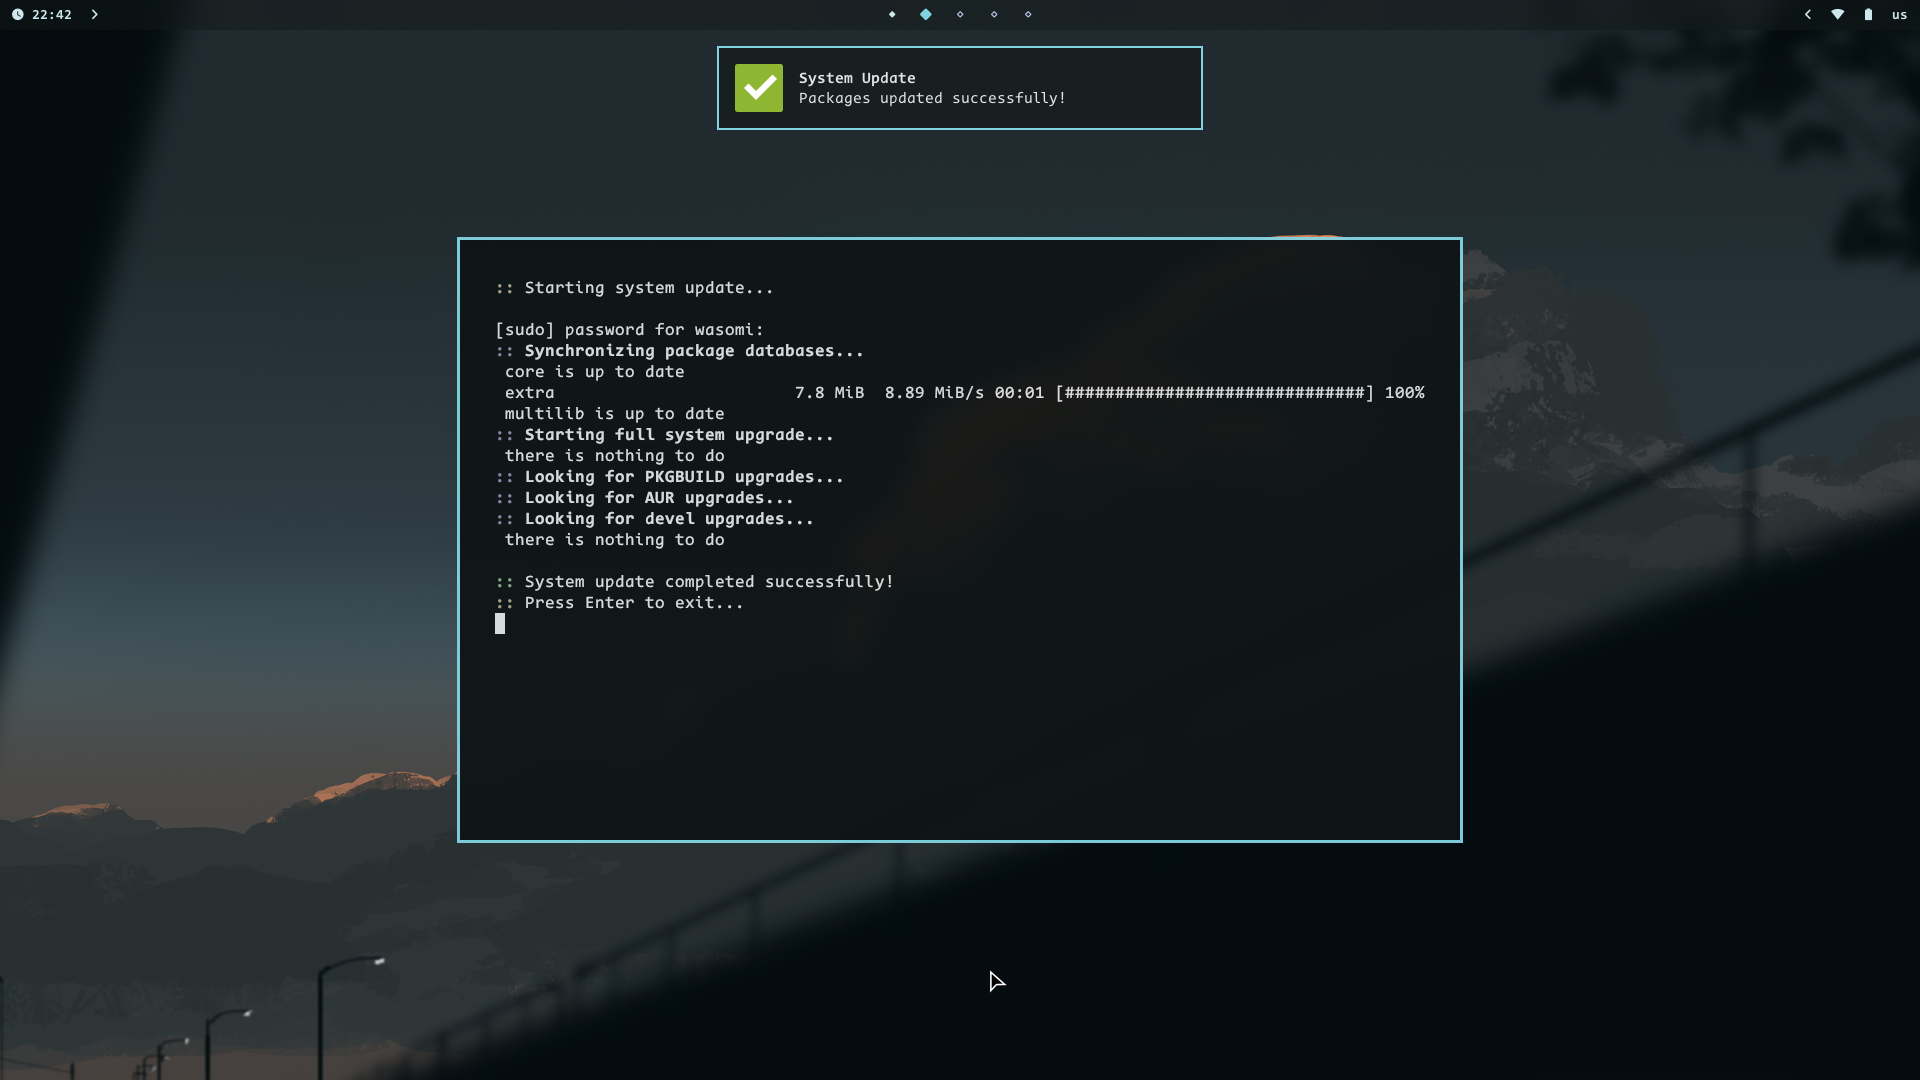
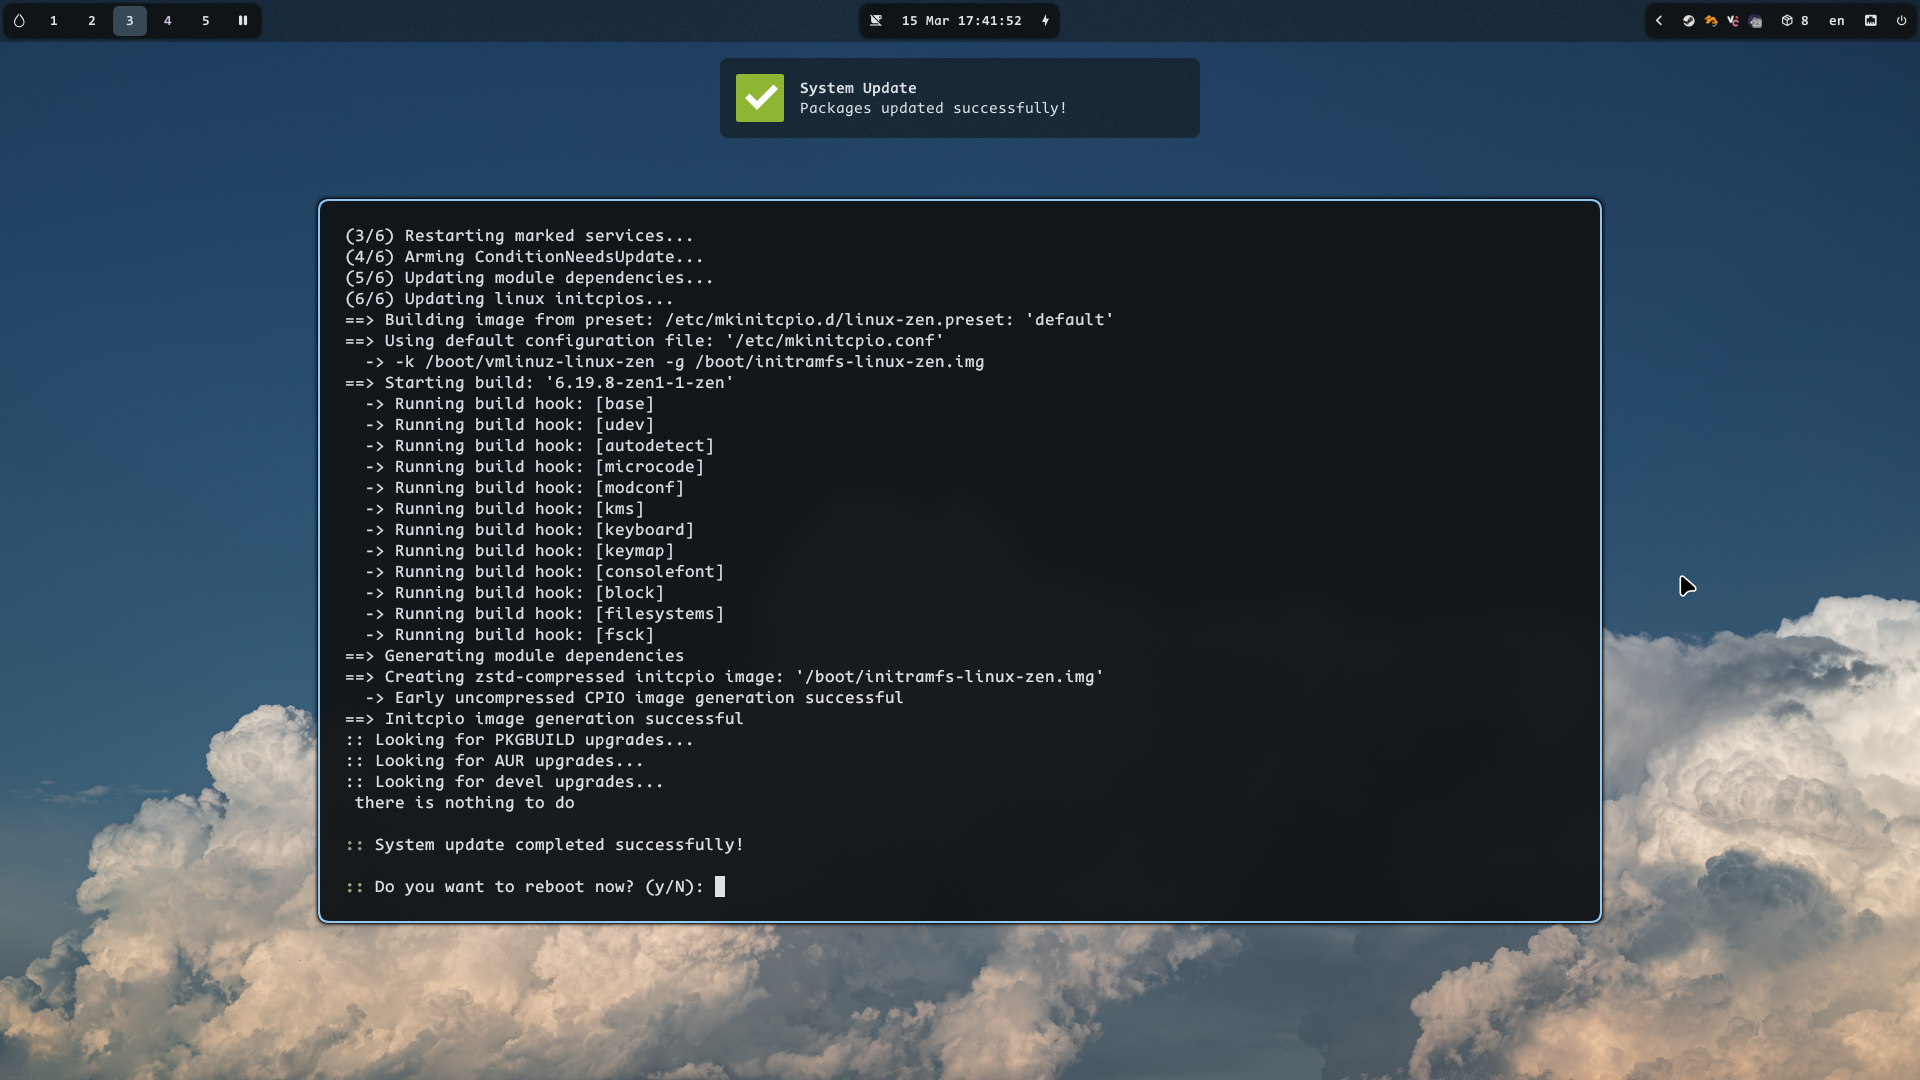
update screenshots & add fastfetch in fish cfg

diff --git a/Docs/install.md b/Docs/install.md
@@ -1,22 +1,6 @@
 # install
 
-1. clone repo: `git clone https://github.com/wasomi/dotfiles ~/.dotfiles --depth 1`
-2. install needed pkgs: `pacman -S - < ~/.dotfiles/Packages/pkgList` & `paru -S - < ~/.dotfiles/Packages/aurPkgList`
-3. make symbolic link for folders
-   1. `ln -s` for all folders in `.dotfiles/.config`, example: `ln -s ~/.dotfiles/.config/hypr/ ~/.config/`
-   2. `ln -s ~/.dotfiles/.local/bin/ ~/.local/`
-   3. `ln -s ~/.dotfiles/Pictures/Wallpapers/ ~/Pictures/`
-4. `chsh -s $(which fish)`
-5. reboot system
-6. if you don't have display manager start hyprland via command `h`
-7. change the wallpaper using keybind `super + w`
-
-## optional pkgs
-
-> i'm just using these packages
-
-- `pacman -S - < ~/.dotfiles/Packages/Optional/pkgList`
-- `paru -S - < ~/.dotfiles/Packages/Optional/aurPkgList`
-
-- `sudo usermod -aG libvirt <username>`
-- `sudo usermod -aG docker <username>`
+1. `sudo pacman -S --needed git`
+2. `git clone https://github.com/wasomi/dotfiles ~/.dotfiles --depth 1`
+3. `cd ~/.dotfiles`
+4. `./install.sh`

diff --git a/README.md b/README.md
@@ -15,16 +15,15 @@
 
 ## docs
 
-- [installation](Docs/install.md)
+- [install](Docs/install.md)
 - [keybinds](Docs/keybinds.md)
 - [features](Docs/features.md)
 - [gallery](Docs/gallery.md)
 
 ## todo
 
-- [ ] config for firefox
 - [ ] gestures
-- [ ] new screenshots
+- [ ] rewrite keybinds
 
 ## thanks to
 
